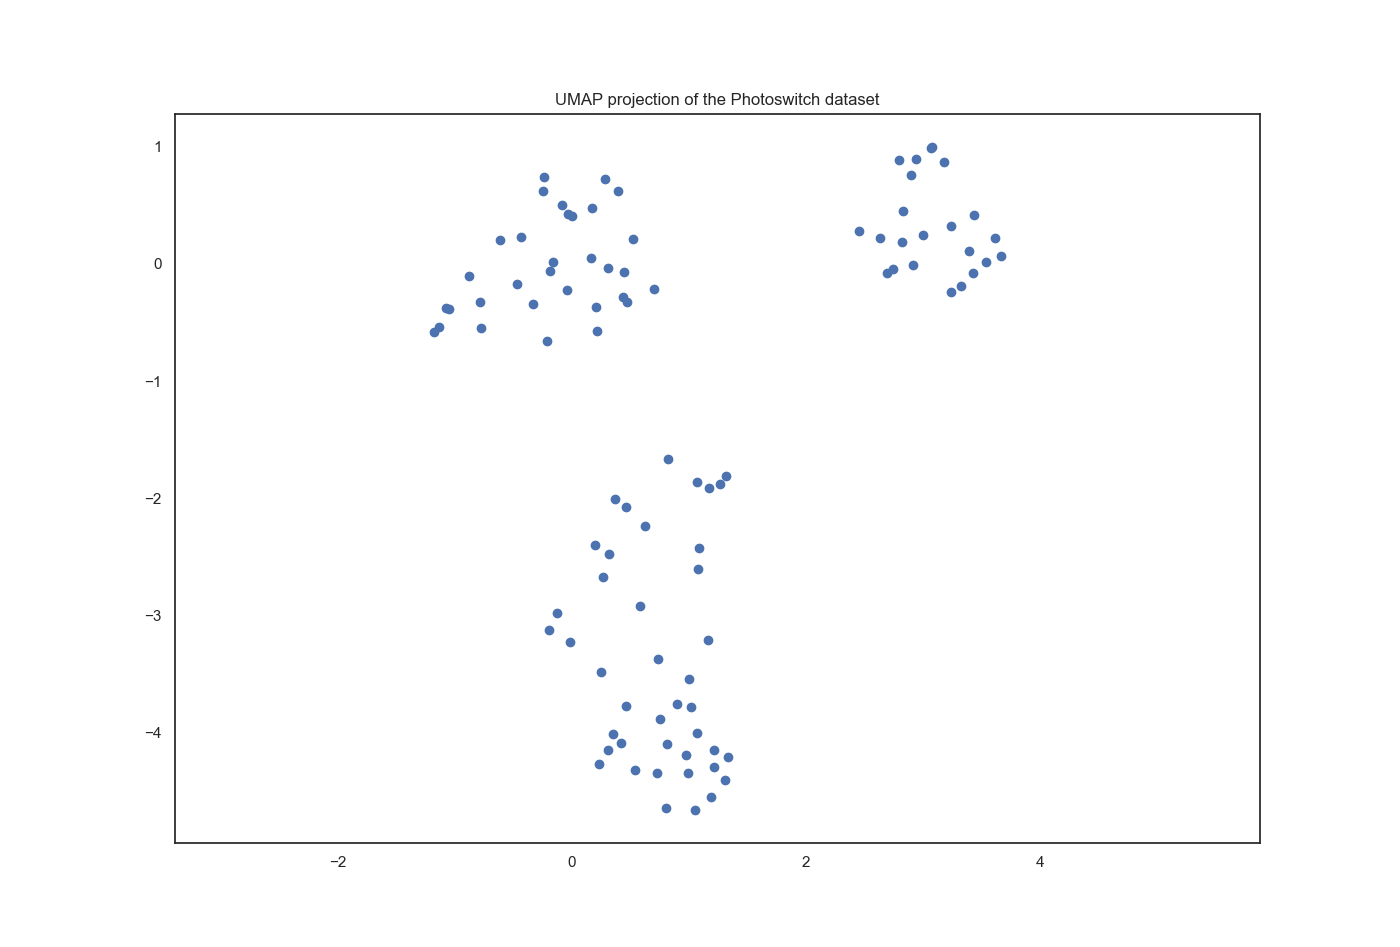
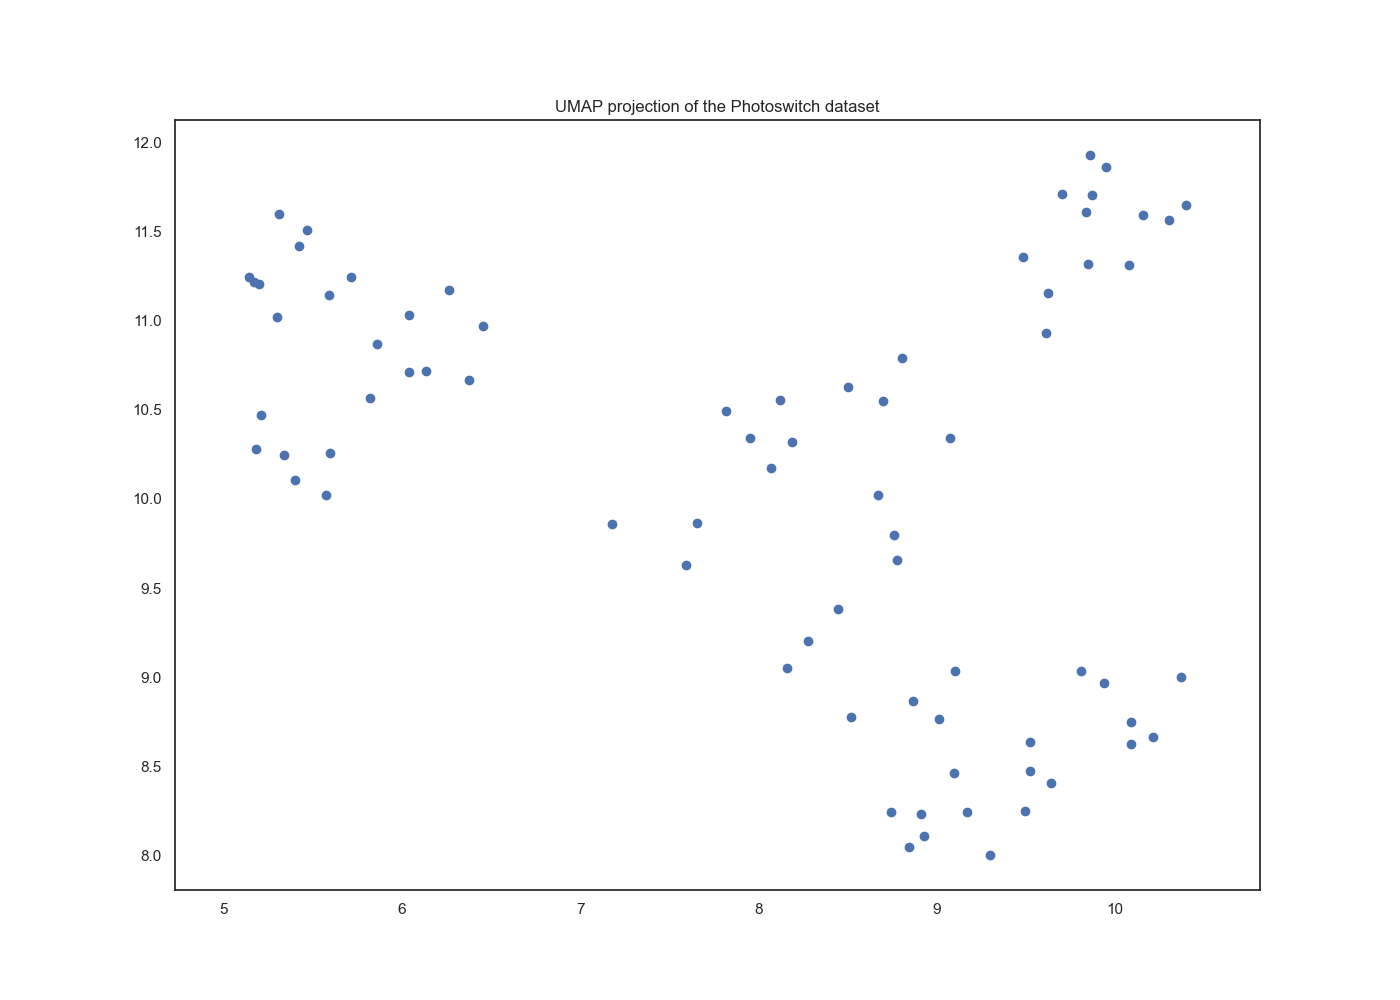
Updated csv file to include photoswitch dataset with 323 molecules. Removed fragprints code to scratch file.

diff --git a/property_prediction/predict_with_GPR.py b/property_prediction/predict_with_GPR.py
@@ -18,7 +18,7 @@ from kernels import Tanimoto
 
 
 PATH = '~/ml_physics/Photoswitches/dataset/photoswitches.csv'  # Change as appropriate
-TASK = 'z_iso_pi'  # ['thermal', 'e_iso_pi', 'z_iso_pi', 'e_iso_n', 'z_iso_n']
+TASK = 'z_iso_n'  # ['thermal', 'e_iso_pi', 'z_iso_pi', 'e_iso_n', 'z_iso_n']
 use_fragments = True  # If True use RDKit fragments as opposed to Morgan fingerprints
 use_pca = False  # If True apply PCA to perform Principal Components Regression.
 n_trials = 200  # number of random train/test splits to use
@@ -68,8 +68,6 @@ if __name__ == '__main__':
     # We define the Gaussian Process Regression Model using the Tanimoto kernel
 
     m = None
-    k_tanimoto = Tanimoto()
-    print_summary(k_tanimoto, fmt="notebook")
 
     def objective_closure():
         return -m.log_marginal_likelihood()
@@ -104,6 +102,7 @@ if __name__ == '__main__':
         X_test = X_test.astype(np.float64)
 
         k = Tanimoto()
+        #k = gpflow.kernels.RBF(lengthscales=np.ones(num_features))
         m = gpflow.models.GPR(data=(X_train, y_train), mean_function=Constant(np.mean(y_train)), kernel=k, noise_variance=1)
 
         # Optimise the kernel variance and noise level by the marginal likelihood

diff --git a/property_prediction/predict_with_random_forest.py b/property_prediction/predict_with_random_forest.py
@@ -13,9 +13,11 @@ from sklearn.metrics import r2_score, mean_squared_error, mean_absolute_error
 from data_utils import DataLoader, transform_data
 
 PATH = '~/ml_physics/Photoswitches/dataset/photoswitches.csv'  # Change as appropriate
-TASK = 'e_iso_pi'  # ['thermal', 'e_iso_pi', 'z_iso_pi', 'e_iso_n', 'z_iso_n']
-use_fragments = False
+TASK = 'e_iso_pi'  # ['e_iso_pi', 'z_iso_pi', 'e_iso_n', 'z_iso_n']
+use_fragments = True
 use_pca = False
+n_trials = 200  # number of random train/test splits to use
+test_set_size = 0.2  # fraction of datapoints to use in the test set
 
 
 if __name__ == '__main__':
@@ -62,9 +64,9 @@ if __name__ == '__main__':
     print('\nBeginning training loop...')
     j = 0  # index for saving results
 
-    for i in range(0, 25):
+    for i in range(0, n_trials):
 
-        X_train, X_test, y_train, y_test = train_test_split(X, y, test_size=0.2, random_state=i)
+        X_train, X_test, y_train, y_test = train_test_split(X, y, test_size=test_set_size, random_state=i)
         y_train = y_train.reshape(-1, 1)
         y_test = y_test.reshape(-1, 1)
         X_train, y_train, X_test, y_test, y_scaler = transform_data(X_train, y_train, X_test, y_test, n_components, use_pca)

diff --git a/visualisation.py b/visualisation.py
@@ -10,7 +10,7 @@ from sklearn.preprocessing import StandardScaler
 import umap
 import seaborn as sns
 
-from data_utils import load_e_iso_pi_data
+from property_prediction.data_utils import DataLoader
 
 
 PATH = '~/ml_physics/Photoswitches/dataset/photoswitches.csv'
@@ -19,7 +19,8 @@ use_fragments = False
 
 if __name__ == '__main__':
 
-    smiles_list, _ = load_e_iso_pi_data(PATH)
+    data_loader = DataLoader(task='thermal', path=PATH)
+    smiles_list, _ = data_loader.load_property_data()
 
     if not use_fragments:
 
